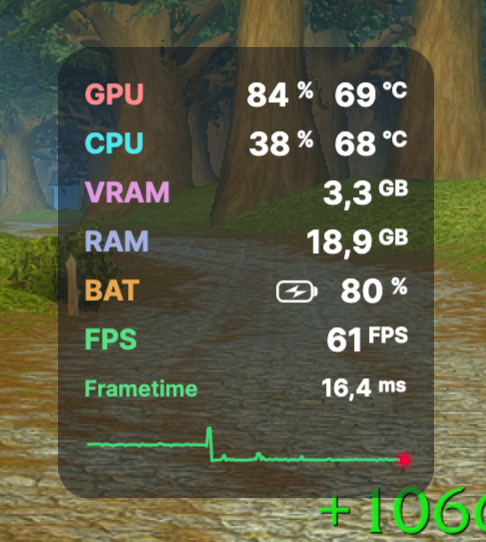
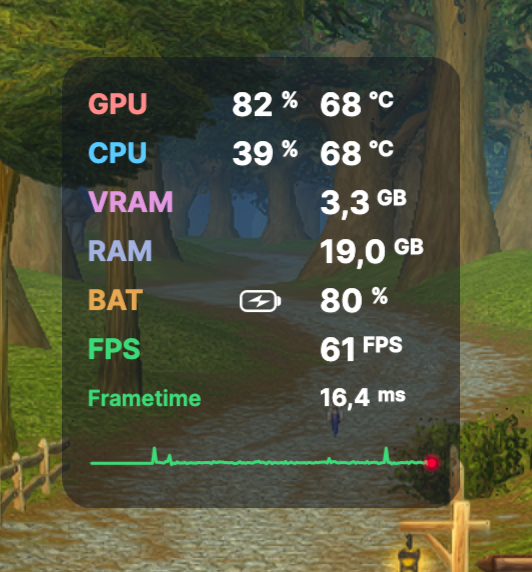
Refined MainWindow layout: adjusted widths and margins, updated badge colors and descriptions, and improved readability for HUD components.

diff --git a/CherryHud/ViewModels/MainWindowViewModel.cs b/CherryHud/ViewModels/MainWindowViewModel.cs
@@ -248,10 +248,10 @@ public partial class MainWindowViewModel : ViewModelBase, IDisposable
     private string _gpuValueColor = "#FFFFFF";
 
     [ObservableProperty]
-    private string _cpuBadgeBg = "#2680DEEA";
+    private string _cpuBadgeBg = "#2679C0FF";
 
     [ObservableProperty]
-    private string _cpuBadgeFg = "#80DEEA";
+    private string _cpuBadgeFg = "#79C0FF";
 
     [ObservableProperty]
     private string _cpuValueColor = "#FFFFFF";
@@ -284,10 +284,10 @@ public partial class MainWindowViewModel : ViewModelBase, IDisposable
     private string _batValueColor = "#FFFFFF";
 
     [ObservableProperty]
-    private string _fpsBadgeBg = "#267ED884";
+    private string _fpsBadgeBg = "#2670D078";
 
     [ObservableProperty]
-    private string _fpsBadgeFg = "#7ED884";
+    private string _fpsBadgeFg = "#70D078";
 
     [ObservableProperty]
     private string _frametimeValueColor = "#FFFFFF";
@@ -312,9 +312,9 @@ public partial class MainWindowViewModel : ViewModelBase, IDisposable
         GpuBadgeFg = "#F28B82";
         GpuValueColor = "#FFFFFF";
 
-        // CPU: Soft pastel aqua
-        CpuBadgeBg = "#2680DEEA";
-        CpuBadgeFg = "#80DEEA";
+        // CPU: Soft pastel sky blue
+        CpuBadgeBg = "#2679C0FF";
+        CpuBadgeFg = "#79C0FF";
         CpuValueColor = "#FFFFFF";
 
         // VRAM: Soft pastel lavender
@@ -332,9 +332,9 @@ public partial class MainWindowViewModel : ViewModelBase, IDisposable
         BatBadgeFg = "#D4A254";
         BatValueColor = "#FFFFFF";
 
-        // FPS: Soft pastel mint green
-        FpsBadgeBg = "#267ED884";
-        FpsBadgeFg = "#7ED884";
+        // FPS & Frametime: Stem green matching the graph line
+        FpsBadgeBg = "#2670D078";
+        FpsBadgeFg = "#70D078";
         FrametimeValueColor = "#FFFFFF";
         FpsStatusColor = "#FFFFFF";
 
@@ -518,9 +518,9 @@ public partial class MainWindowViewModel : ViewModelBase, IDisposable
 
                 if (!fpsData.HasPermission)
                 {
-                    FpsValue = "Désactivé";
+                    FpsValue = "OFF";
                     FpsUnit = "";
-                    FpsDisplay = "Désactivé";
+                    FpsDisplay = "OFF";
 
                     FrametimeValue = "";
                     FrametimeUnit = "";

diff --git a/CherryHud/Views/MainWindow.axaml.cs b/CherryHud/Views/MainWindow.axaml.cs
@@ -104,7 +104,7 @@ public partial class MainWindow : Window
         int screenY = screen.Bounds.Y;
         int screenW = screen.Bounds.Width;
         int screenH = screen.Bounds.Height;
-        int winW = (int)(Bounds.Width > 0 ? Bounds.Width : (double.IsNaN(Width) ? 188 : Width));
+        int winW = (int)(Bounds.Width > 0 ? Bounds.Width : (double.IsNaN(Width) ? 200 : Width));
         int winH = (int)(Bounds.Height > 0 ? Bounds.Height : (double.IsNaN(Height) ? 210 : Height));
 
         int x = corner switch

diff --git a/README.md b/README.md
@@ -38,11 +38,11 @@
 - **GPU Temperature**: Hardware temperatures read directly from native `AppleSMC` registers.
 - **Dedicated VRAM**: Active allocated video memory (in GB).
 
-### 🔵 CPU (Cyan)
+### 🔵 CPU (Sky Blue)
 - **CPU Load (%)**: Overall processor core utilization queried via macOS Mach kernel APIs.
 - **CPU Temperature**: Instantaneous processor die temperature via native `AppleSMC`.
 
-### 🟣 VRAM / Memory (Purple & Royal Blue)
+### 🟣 VRAM & RAM (Lavender & Periwinkle)
 - **VRAM / GPU Memory**: Active VRAM consumption in GB (customizable label: *VRAM* or *GPU MEM*).
 - **RAM**: Real-time system physical memory consumption in GB.
 
